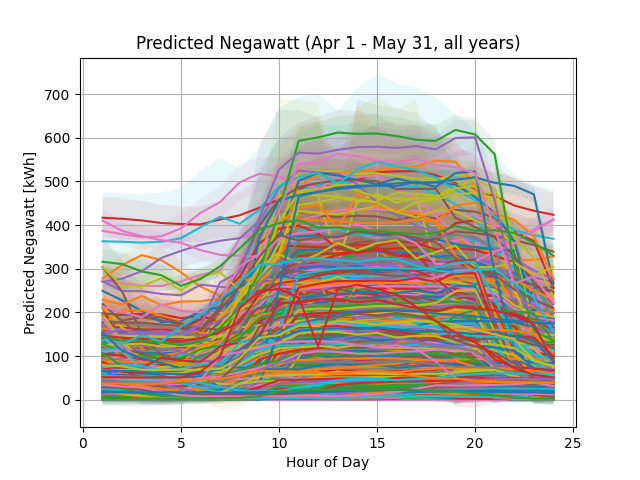
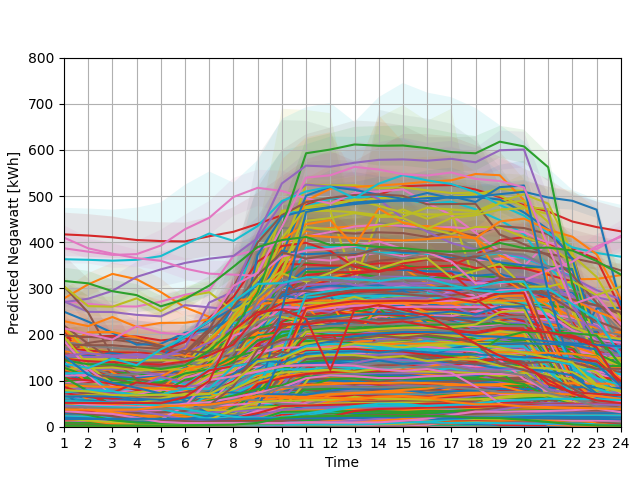
modified:   negawatt_vector_consumers_all.py

diff --git a/negawatt_vector_consumers_all.py b/negawatt_vector_consumers_all.py
@@ -8,6 +8,7 @@ df_list.columns = df_list.columns.str.strip()
 
 data_dir = 'OPEN_DATA_60/raw'
 plt.figure()
+plt.subplots_adjust(left=0.1, right=0.97)
 output_rows = []
 excluded_files = []
 
@@ -89,9 +90,12 @@ for f in excluded_files:
 print(f'\n除外されたファイルの数:', len(excluded_files))
 
 # グラフ保存
-plt.xlabel('Hour of Day')
+plt.xlabel('Time')
+plt.xlim(1,24)
+plt.xticks(range(1, 25))
 plt.ylabel('Predicted Negawatt [kWh]')
-plt.title('Predicted Negawatt (Apr 1 - May 31, all years)')
+plt.ylim(-1,800)
+#plt.title('Predicted Negawatt (Apr 1 - May 31, all years)')
 plt.grid(True)
 os.makedirs('output', exist_ok=True)
 plt.savefig("output/predicted_negawatt_apr_may_all_years.png")
